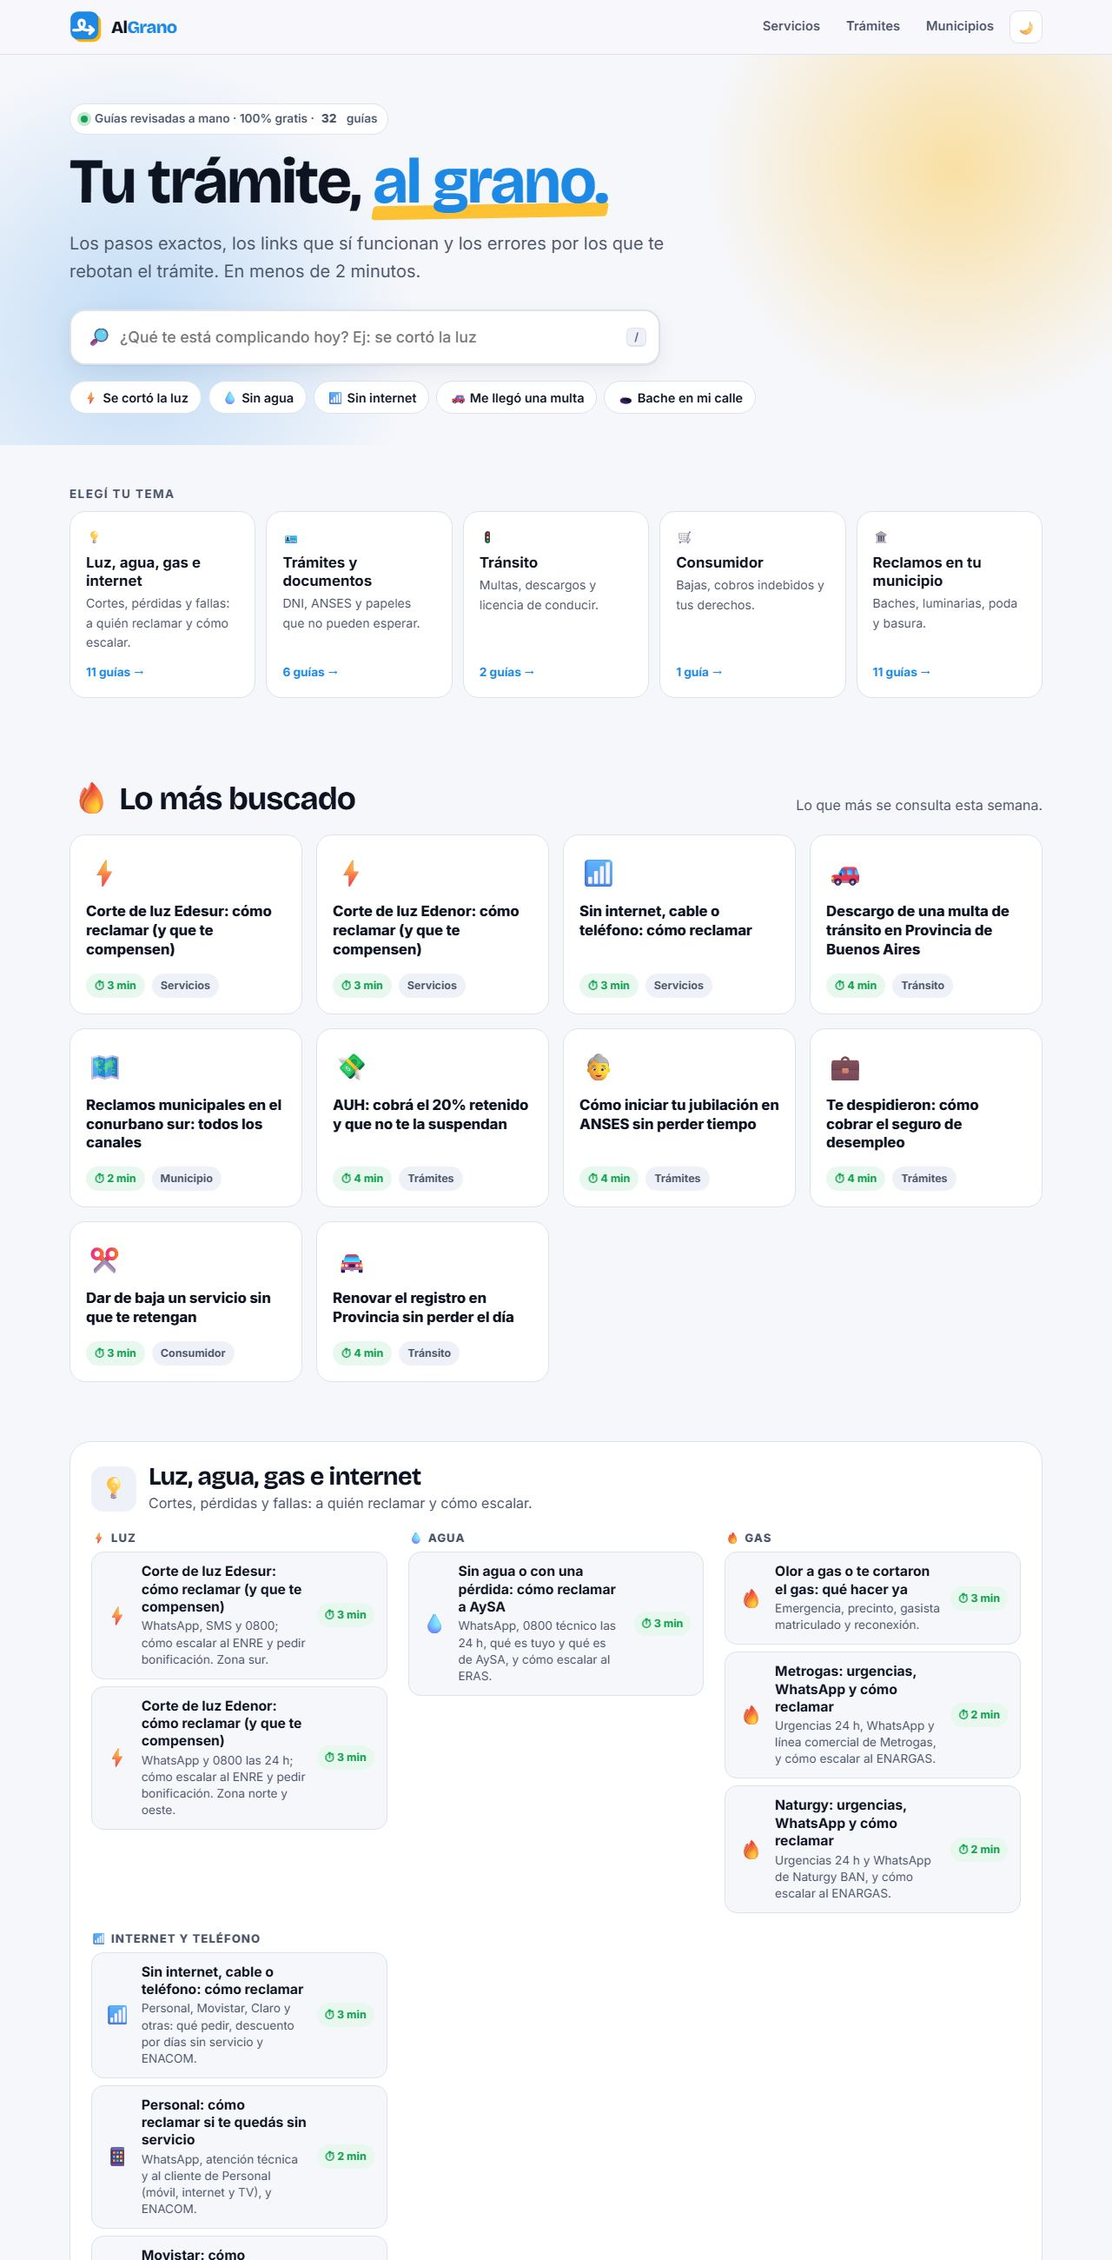
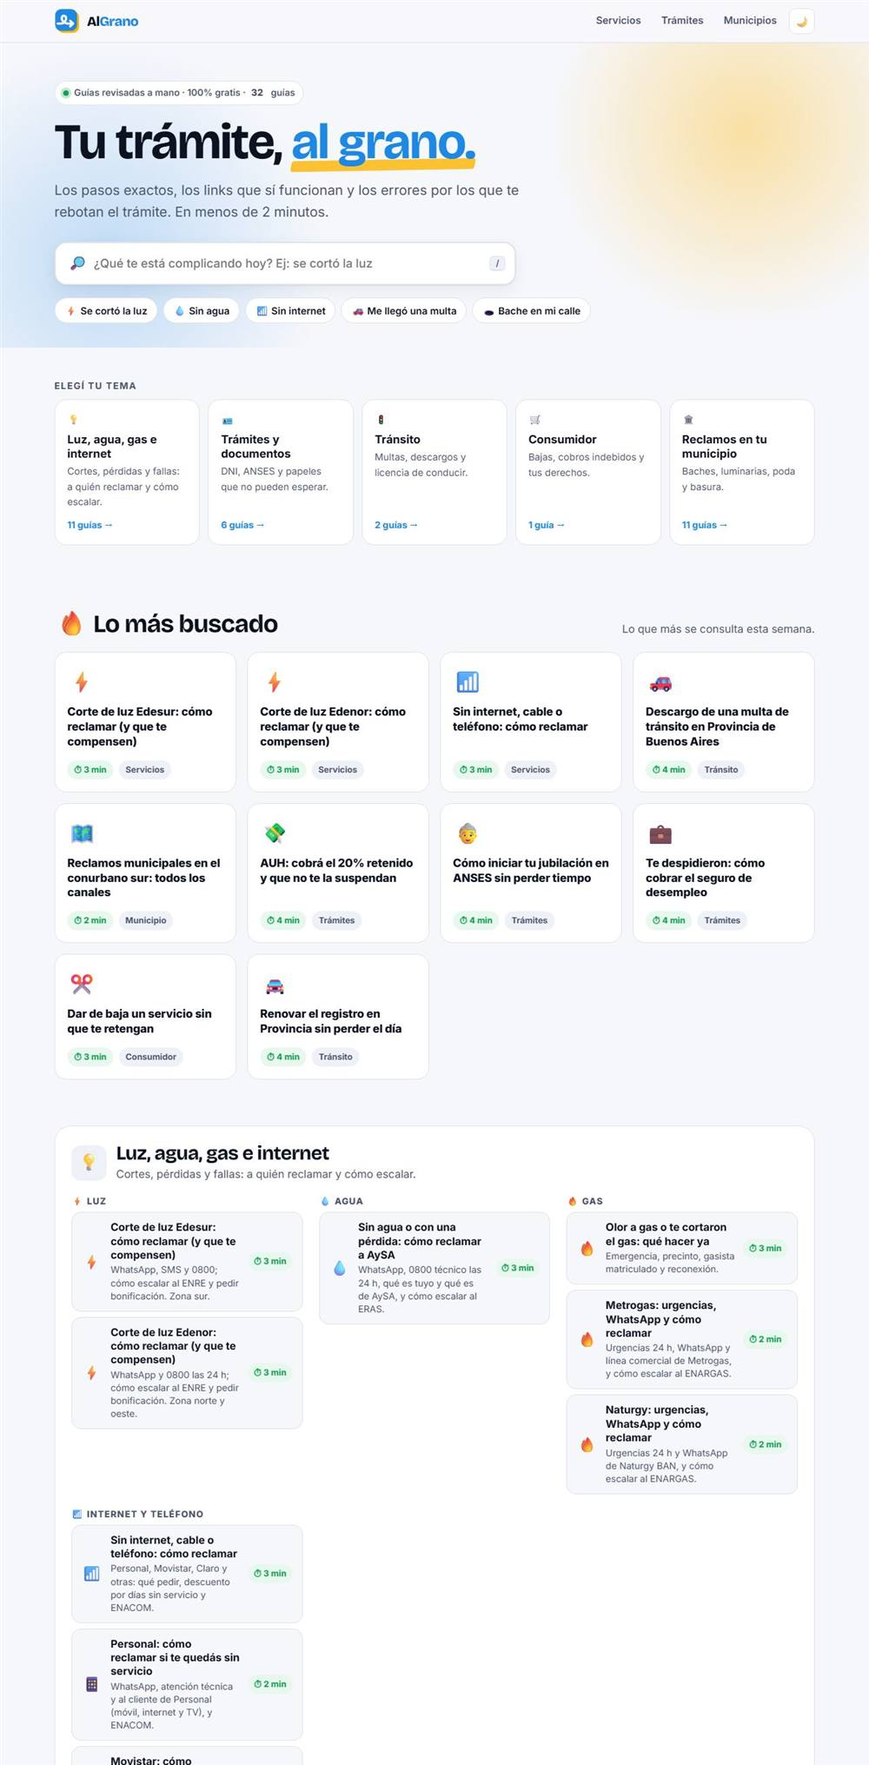
Puesta a punto de SEO y foco en páginas web
- Invitaciones sale del menú principal (queda en el pie y en Trabajos).
- sitemap.xml y robots.txt.
- Favicon SVG e íconos PNG (48, 180, 192 y 512 px) e imagen para
  compartir de 1200x630.
- Datos estructurados: negocio con planes y precios en el inicio y
  migas de pan en el resto; og:url, og:locale y twitter:image.
- Capturas en JPG más livianas (hasta 3 veces menos peso).

diff --git a/index.html b/index.html
@@ -4,14 +4,24 @@
 <meta charset="UTF-8">
 <meta name="viewport" content="width=device-width, initial-scale=1.0">
 <title>Bether Studio — Páginas web para tu negocio | Buenos Aires</title>
-<meta name="description" content="Diseñamos páginas web modernas y pensadas para celular, con una cuota mensual que incluye hosting, cambios y soporte. También hacemos invitaciones digitales.">
+<meta name="description" content="Diseño de páginas web para negocios y profesionales en Buenos Aires. Webs modernas, pensadas para celular, con cuota mensual desde $25.000: hosting, dominio, cambios y soporte incluidos.">
 <link rel="canonical" href="https://bether-studio.com/">
 <meta property="og:type" content="website">
 <meta property="og:title" content="Bether Studio — Tu negocio, con una web que vende">
 <meta property="og:description" content="Webs a medida con cuota mensual: diseño, hosting, cambios y soporte incluidos.">
-<meta property="og:image" content="https://bether-studio.com/img/learningtofly.png">
+<link rel="icon" href="favicon.svg" type="image/svg+xml">
+<link rel="icon" href="favicon-48.png" sizes="48x48" type="image/png">
+<link rel="apple-touch-icon" href="apple-touch-icon.png">
+<meta name="theme-color" content="#0a0a0f">
+<meta property="og:url" content="https://bether-studio.com/">
+<meta property="og:site_name" content="Bether Studio">
+<meta property="og:locale" content="es_AR">
+<meta property="og:image" content="https://bether-studio.com/img/og.jpg">
+<meta property="og:image:width" content="1200">
+<meta property="og:image:height" content="630">
 <meta name="twitter:card" content="summary_large_image">
-<script type="application/ld+json">{"@context":"https://schema.org","@type":"ProfessionalService","name":"Bether Studio","description":"Diseño de páginas web para negocios e invitaciones digitales interactivas.","url":"https://bether-studio.com/","areaServed":"Argentina"}</script>
+<meta name="twitter:image" content="https://bether-studio.com/img/og.jpg">
+<script type="application/ld+json">{"@context":"https://schema.org","@type":"ProfessionalService","@id":"https://bether-studio.com/#negocio","name":"Bether Studio","url":"https://bether-studio.com/","logo":"https://bether-studio.com/icon-512.png","image":"https://bether-studio.com/img/og.jpg","description":"Diseño y desarrollo de páginas web para negocios y profesionales, con cuota mensual que incluye hosting, dominio, cambios y soporte.","telephone":"+54 9 11 4530-9135","priceRange":"$25.000 - $80.000 por mes","currenciesAccepted":"ARS","address":{"@type":"PostalAddress","addressLocality":"Buenos Aires","addressRegion":"Buenos Aires","addressCountry":"AR"},"areaServed":[{"@type":"Country","name":"Argentina"}],"contactPoint":{"@type":"ContactPoint","telephone":"+54 9 11 4530-9135","contactType":"ventas","availableLanguage":"es"},"hasOfferCatalog":{"@type":"OfferCatalog","name":"Planes de páginas web","itemListElement":[{"@type":"Offer","itemOffered":{"@type":"Service","name":"Plan Inicial","description":"Web de una página con WhatsApp, mapa, hosting y SSL"},"price":25000,"priceCurrency":"ARS"},{"@type":"Offer","itemOffered":{"@type":"Service","name":"Plan Negocio","description":"Hasta 5 secciones, dominio .com.ar, alta en Google y estadísticas"},"price":45000,"priceCurrency":"ARS"},{"@type":"Offer","itemOffered":{"@type":"Service","name":"Plan Premium","description":"Funciones a medida: reservas, catálogo, área de clientes"},"price":80000,"priceCurrency":"ARS"}]}}</script>
 <link rel="preconnect" href="https://fonts.googleapis.com">
 <link rel="preconnect" href="https://fonts.gstatic.com" crossorigin>
 <link href="https://fonts.googleapis.com/css2?family=Cormorant+Garamond:ital,wght@0,500;0,600;1,500&family=Manrope:wght@400;600;700;800&display=swap" rel="stylesheet">
@@ -35,7 +45,6 @@
       <a href="trabajos.html">Trabajos</a>
       <a href="planes.html">Planes</a>
       <a href="empezar.html">Cómo empezar</a>
-      <a href="invitaciones.html" class="nav__inv">Invitaciones ✦</a>
     </div>
     <a href="empezar.html#contacto" class="btn btn--dark">Quiero mi web</a>
     <button class="nav__burger" id="navBurger" aria-label="Abrir menú" aria-expanded="false"><span></span><span></span><span></span></button>
@@ -67,9 +76,9 @@
     </div>
     <div class="scene hero__in" style="--d:.3s" id="scene" aria-hidden="true">
       <div class="deck" id="deck">
-        <div class="browser b1"><div class="browser__bar"><i></i><i></i><i></i><span>learningtoflyacademy.com</span></div><img src="img/learningtofly.png" alt=""></div>
+        <div class="browser b1"><div class="browser__bar"><i></i><i></i><i></i><span>learningtoflyacademy.com</span></div><img src="img/learningtofly.jpg" alt=""></div>
         <div class="browser b2"><div class="browser__bar"><i></i><i></i><i></i><span>salón bether</span></div><img src="img/salon.jpg" alt=""></div>
-        <div class="browser b3"><div class="browser__bar"><i></i><i></i><i></i><span>algrano.com.ar</span></div><img src="img/algrano.png" alt=""></div>
+        <div class="browser b3"><div class="browser__bar"><i></i><i></i><i></i><span>algrano.com.ar</span></div><img src="img/algrano.jpg" alt=""></div>
         <div class="toast t1"><span class="ic ic--wa">💬</span><div><b>Nueva consulta</b><small>desde tu web · hace 1 min</small></div></div>
         <div class="toast t2"><span class="ic">📱</span><div><b>Perfecta en el celular</b><small>y en cualquier pantalla</small></div></div>
         <div class="seal">Webs<br>reales,<br>en uso</div>
@@ -158,7 +167,7 @@
       <a class="work work--mini rv" href="https://www.learningtoflyacademy.com/" target="_blank" rel="noopener">
         <div class="shot">
           <span class="status">En uso</span>
-          <div class="browser"><div class="browser__bar"><i></i><i></i><i></i><span>learningtoflyacademy.com</span></div><img src="img/learningtofly.png" alt="Página de Learning to Fly Academy" loading="lazy"></div>
+          <div class="browser"><div class="browser__bar"><i></i><i></i><i></i><span>learningtoflyacademy.com</span></div><img src="img/learningtofly.jpg" alt="Página de Learning to Fly Academy" loading="lazy"></div>
         </div>
         <div class="info">
           <span class="cat">Academia de inglés</span>

diff --git a/trabajos.html b/trabajos.html
@@ -9,9 +9,19 @@
 <meta property="og:type" content="website">
 <meta property="og:title" content="Bether Studio — Tu negocio, con una web que vende">
 <meta property="og:description" content="Webs a medida con cuota mensual: diseño, hosting, cambios y soporte incluidos.">
-<meta property="og:image" content="https://bether-studio.com/img/learningtofly.png">
+<link rel="icon" href="favicon.svg" type="image/svg+xml">
+<link rel="icon" href="favicon-48.png" sizes="48x48" type="image/png">
+<link rel="apple-touch-icon" href="apple-touch-icon.png">
+<meta name="theme-color" content="#0a0a0f">
+<meta property="og:url" content="https://bether-studio.com/trabajos.html">
+<meta property="og:site_name" content="Bether Studio">
+<meta property="og:locale" content="es_AR">
+<meta property="og:image" content="https://bether-studio.com/img/og.jpg">
+<meta property="og:image:width" content="1200">
+<meta property="og:image:height" content="630">
 <meta name="twitter:card" content="summary_large_image">
-<script type="application/ld+json">{"@context":"https://schema.org","@type":"ProfessionalService","name":"Bether Studio","description":"Diseño de páginas web para negocios e invitaciones digitales interactivas.","url":"https://bether-studio.com/","areaServed":"Argentina"}</script>
+<meta name="twitter:image" content="https://bether-studio.com/img/og.jpg">
+<script type="application/ld+json">{"@context":"https://schema.org","@type":"BreadcrumbList","itemListElement":[{"@type":"ListItem","position":1,"name":"Inicio","item":"https://bether-studio.com/"},{"@type":"ListItem","position":2,"name":"Trabajos","item":"https://bether-studio.com/trabajos.html"}]}</script>
 <link rel="preconnect" href="https://fonts.googleapis.com">
 <link rel="preconnect" href="https://fonts.gstatic.com" crossorigin>
 <link href="https://fonts.googleapis.com/css2?family=Cormorant+Garamond:ital,wght@0,500;0,600;1,500&family=Manrope:wght@400;600;700;800&display=swap" rel="stylesheet">
@@ -35,7 +45,6 @@
       <a href="trabajos.html" class="active" aria-current="page">Trabajos</a>
       <a href="planes.html">Planes</a>
       <a href="empezar.html">Cómo empezar</a>
-      <a href="invitaciones.html" class="nav__inv">Invitaciones ✦</a>
     </div>
     <a href="empezar.html#contacto" class="btn btn--dark">Quiero mi web</a>
     <button class="nav__burger" id="navBurger" aria-label="Abrir menú" aria-expanded="false"><span></span><span></span><span></span></button>
@@ -70,7 +79,7 @@
       <article class="work featured rv" data-cat="educacion">
         <div class="shot">
           <span class="status">En uso</span>
-          <div class="browser"><div class="browser__bar"><i></i><i></i><i></i><span>learningtoflyacademy.com</span></div><img src="img/learningtofly.png" alt="Página de Learning to Fly Academy" loading="lazy"></div>
+          <div class="browser"><div class="browser__bar"><i></i><i></i><i></i><span>learningtoflyacademy.com</span></div><img src="img/learningtofly.jpg" alt="Página de Learning to Fly Academy" loading="lazy"></div>
         </div>
         <div class="info">
           <span class="cat">Academia de inglés · Argentina y España</span>

diff --git a/empezar.html b/empezar.html
@@ -9,9 +9,19 @@
 <meta property="og:type" content="website">
 <meta property="og:title" content="Bether Studio — Tu negocio, con una web que vende">
 <meta property="og:description" content="Webs a medida con cuota mensual: diseño, hosting, cambios y soporte incluidos.">
-<meta property="og:image" content="https://bether-studio.com/img/learningtofly.png">
+<link rel="icon" href="favicon.svg" type="image/svg+xml">
+<link rel="icon" href="favicon-48.png" sizes="48x48" type="image/png">
+<link rel="apple-touch-icon" href="apple-touch-icon.png">
+<meta name="theme-color" content="#0a0a0f">
+<meta property="og:url" content="https://bether-studio.com/empezar.html">
+<meta property="og:site_name" content="Bether Studio">
+<meta property="og:locale" content="es_AR">
+<meta property="og:image" content="https://bether-studio.com/img/og.jpg">
+<meta property="og:image:width" content="1200">
+<meta property="og:image:height" content="630">
 <meta name="twitter:card" content="summary_large_image">
-<script type="application/ld+json">{"@context":"https://schema.org","@type":"ProfessionalService","name":"Bether Studio","description":"Diseño de páginas web para negocios e invitaciones digitales interactivas.","url":"https://bether-studio.com/","areaServed":"Argentina"}</script>
+<meta name="twitter:image" content="https://bether-studio.com/img/og.jpg">
+<script type="application/ld+json">{"@context":"https://schema.org","@type":"BreadcrumbList","itemListElement":[{"@type":"ListItem","position":1,"name":"Inicio","item":"https://bether-studio.com/"},{"@type":"ListItem","position":2,"name":"Cómo empezar","item":"https://bether-studio.com/empezar.html"}]}</script>
 <link rel="preconnect" href="https://fonts.googleapis.com">
 <link rel="preconnect" href="https://fonts.gstatic.com" crossorigin>
 <link href="https://fonts.googleapis.com/css2?family=Cormorant+Garamond:ital,wght@0,500;0,600;1,500&family=Manrope:wght@400;600;700;800&display=swap" rel="stylesheet">
@@ -35,7 +45,6 @@
       <a href="trabajos.html">Trabajos</a>
       <a href="planes.html">Planes</a>
       <a href="empezar.html" class="active" aria-current="page">Cómo empezar</a>
-      <a href="invitaciones.html" class="nav__inv">Invitaciones ✦</a>
     </div>
     <a href="empezar.html#contacto" class="btn btn--dark">Quiero mi web</a>
     <button class="nav__burger" id="navBurger" aria-label="Abrir menú" aria-expanded="false"><span></span><span></span><span></span></button>

diff --git a/planes.html b/planes.html
@@ -9,9 +9,19 @@
 <meta property="og:type" content="website">
 <meta property="og:title" content="Bether Studio — Tu negocio, con una web que vende">
 <meta property="og:description" content="Webs a medida con cuota mensual: diseño, hosting, cambios y soporte incluidos.">
-<meta property="og:image" content="https://bether-studio.com/img/learningtofly.png">
+<link rel="icon" href="favicon.svg" type="image/svg+xml">
+<link rel="icon" href="favicon-48.png" sizes="48x48" type="image/png">
+<link rel="apple-touch-icon" href="apple-touch-icon.png">
+<meta name="theme-color" content="#0a0a0f">
+<meta property="og:url" content="https://bether-studio.com/planes.html">
+<meta property="og:site_name" content="Bether Studio">
+<meta property="og:locale" content="es_AR">
+<meta property="og:image" content="https://bether-studio.com/img/og.jpg">
+<meta property="og:image:width" content="1200">
+<meta property="og:image:height" content="630">
 <meta name="twitter:card" content="summary_large_image">
-<script type="application/ld+json">{"@context":"https://schema.org","@type":"ProfessionalService","name":"Bether Studio","description":"Diseño de páginas web para negocios e invitaciones digitales interactivas.","url":"https://bether-studio.com/","areaServed":"Argentina"}</script>
+<meta name="twitter:image" content="https://bether-studio.com/img/og.jpg">
+<script type="application/ld+json">{"@context":"https://schema.org","@type":"BreadcrumbList","itemListElement":[{"@type":"ListItem","position":1,"name":"Inicio","item":"https://bether-studio.com/"},{"@type":"ListItem","position":2,"name":"Planes","item":"https://bether-studio.com/planes.html"}]}</script>
 <link rel="preconnect" href="https://fonts.googleapis.com">
 <link rel="preconnect" href="https://fonts.gstatic.com" crossorigin>
 <link href="https://fonts.googleapis.com/css2?family=Cormorant+Garamond:ital,wght@0,500;0,600;1,500&family=Manrope:wght@400;600;700;800&display=swap" rel="stylesheet">
@@ -35,7 +45,6 @@
       <a href="trabajos.html">Trabajos</a>
       <a href="planes.html" class="active" aria-current="page">Planes</a>
       <a href="empezar.html">Cómo empezar</a>
-      <a href="invitaciones.html" class="nav__inv">Invitaciones ✦</a>
     </div>
     <a href="empezar.html#contacto" class="btn btn--dark">Quiero mi web</a>
     <button class="nav__burger" id="navBurger" aria-label="Abrir menú" aria-expanded="false"><span></span><span></span><span></span></button>

diff --git a/portfolio.html b/portfolio.html
@@ -9,7 +9,17 @@
 <meta property="og:type" content="website">
 <meta property="og:title" content="Ejemplos en vivo — Bether Studio | Invitaciones digitales">
 <meta property="og:description" content="Invitaciones digitales reales para casamientos, XV, cumpleaños e infantiles. Elegí una y navegala como un invitado.">
+<link rel="icon" href="favicon.svg" type="image/svg+xml">
+<link rel="icon" href="favicon-48.png" sizes="48x48" type="image/png">
+<link rel="apple-touch-icon" href="apple-touch-icon.png">
+<meta name="theme-color" content="#0a0a0f">
+<meta property="og:url" content="https://bether-studio.com/portfolio.html">
+<meta property="og:site_name" content="Bether Studio">
+<meta property="og:locale" content="es_AR">
 <meta property="og:image" content="https://bether-studio.com/img/inv/casamiento.jpg">
+<meta name="twitter:card" content="summary_large_image">
+<meta name="twitter:image" content="https://bether-studio.com/img/inv/casamiento.jpg">
+<script type="application/ld+json">{"@context":"https://schema.org","@type":"BreadcrumbList","itemListElement":[{"@type":"ListItem","position":1,"name":"Inicio","item":"https://bether-studio.com/"},{"@type":"ListItem","position":2,"name":"Invitaciones","item":"https://bether-studio.com/invitaciones.html"},{"@type":"ListItem","position":3,"name":"Ejemplos","item":"https://bether-studio.com/portfolio.html"}]}</script>
 <link rel="preconnect" href="https://fonts.googleapis.com">
 <link rel="preconnect" href="https://fonts.gstatic.com" crossorigin>
 <link href="https://fonts.googleapis.com/css2?family=Cormorant+Garamond:ital,wght@0,500;0,600;1,500&family=Great+Vibes&family=Manrope:wght@400;600;700;800&display=swap" rel="stylesheet">

diff --git a/contacto.html b/contacto.html
@@ -9,7 +9,17 @@
 <meta property="og:type" content="website">
 <meta property="og:title" content="Pedí tu invitación — Bether Studio">
 <meta property="og:description" content="Contanos tu fiesta y en 24–48 hs te mandamos la demo de tu invitación digital, gratis y sin compromiso.">
+<link rel="icon" href="favicon.svg" type="image/svg+xml">
+<link rel="icon" href="favicon-48.png" sizes="48x48" type="image/png">
+<link rel="apple-touch-icon" href="apple-touch-icon.png">
+<meta name="theme-color" content="#0a0a0f">
+<meta property="og:url" content="https://bether-studio.com/contacto.html">
+<meta property="og:site_name" content="Bether Studio">
+<meta property="og:locale" content="es_AR">
 <meta property="og:image" content="https://bether-studio.com/img/inv/casamiento.jpg">
+<meta name="twitter:card" content="summary_large_image">
+<meta name="twitter:image" content="https://bether-studio.com/img/inv/casamiento.jpg">
+<script type="application/ld+json">{"@context":"https://schema.org","@type":"BreadcrumbList","itemListElement":[{"@type":"ListItem","position":1,"name":"Inicio","item":"https://bether-studio.com/"},{"@type":"ListItem","position":2,"name":"Invitaciones","item":"https://bether-studio.com/invitaciones.html"},{"@type":"ListItem","position":3,"name":"Pedí la tuya","item":"https://bether-studio.com/contacto.html"}]}</script>
 <link rel="preconnect" href="https://fonts.googleapis.com">
 <link rel="preconnect" href="https://fonts.gstatic.com" crossorigin>
 <link href="https://fonts.googleapis.com/css2?family=Cormorant+Garamond:ital,wght@0,500;0,600;1,500&family=Great+Vibes&family=Manrope:wght@400;600;700;800&display=swap" rel="stylesheet">

diff --git a/precios.html b/precios.html
@@ -9,7 +9,17 @@
 <meta property="og:type" content="website">
 <meta property="og:title" content="Precios — Bether Studio | Invitaciones digitales">
 <meta property="og:description" content="Invitaciones digitales desde $10.000, pago único. Demo gratis: si no te convence, no pagás nada.">
+<link rel="icon" href="favicon.svg" type="image/svg+xml">
+<link rel="icon" href="favicon-48.png" sizes="48x48" type="image/png">
+<link rel="apple-touch-icon" href="apple-touch-icon.png">
+<meta name="theme-color" content="#0a0a0f">
+<meta property="og:url" content="https://bether-studio.com/precios.html">
+<meta property="og:site_name" content="Bether Studio">
+<meta property="og:locale" content="es_AR">
 <meta property="og:image" content="https://bether-studio.com/img/inv/casamiento.jpg">
+<meta name="twitter:card" content="summary_large_image">
+<meta name="twitter:image" content="https://bether-studio.com/img/inv/casamiento.jpg">
+<script type="application/ld+json">{"@context":"https://schema.org","@type":"BreadcrumbList","itemListElement":[{"@type":"ListItem","position":1,"name":"Inicio","item":"https://bether-studio.com/"},{"@type":"ListItem","position":2,"name":"Invitaciones","item":"https://bether-studio.com/invitaciones.html"},{"@type":"ListItem","position":3,"name":"Precios","item":"https://bether-studio.com/precios.html"}]}</script>
 <link rel="preconnect" href="https://fonts.googleapis.com">
 <link rel="preconnect" href="https://fonts.gstatic.com" crossorigin>
 <link href="https://fonts.googleapis.com/css2?family=Cormorant+Garamond:ital,wght@0,500;0,600;1,500&family=Great+Vibes&family=Manrope:wght@400;600;700;800&display=swap" rel="stylesheet">

diff --git a/invitaciones.html b/invitaciones.html
@@ -9,7 +9,17 @@
 <meta property="og:type" content="website">
 <meta property="og:title" content="Bether Studio — Invitaciones digitales interactivas | Buenos Aires">
 <meta property="og:description" content="Invitaciones digitales que se viven: link con el nombre de cada invitado, sobre animado, música, mini-juego y confirmación en tiempo real. Demo gratis.">
+<link rel="icon" href="favicon.svg" type="image/svg+xml">
+<link rel="icon" href="favicon-48.png" sizes="48x48" type="image/png">
+<link rel="apple-touch-icon" href="apple-touch-icon.png">
+<meta name="theme-color" content="#0a0a0f">
+<meta property="og:url" content="https://bether-studio.com/invitaciones.html">
+<meta property="og:site_name" content="Bether Studio">
+<meta property="og:locale" content="es_AR">
 <meta property="og:image" content="https://bether-studio.com/img/inv/casamiento.jpg">
+<meta name="twitter:card" content="summary_large_image">
+<meta name="twitter:image" content="https://bether-studio.com/img/inv/casamiento.jpg">
+<script type="application/ld+json">{"@context":"https://schema.org","@type":"BreadcrumbList","itemListElement":[{"@type":"ListItem","position":1,"name":"Inicio","item":"https://bether-studio.com/"},{"@type":"ListItem","position":2,"name":"Invitaciones","item":"https://bether-studio.com/invitaciones.html"}]}</script>
 <link rel="preconnect" href="https://fonts.googleapis.com">
 <link rel="preconnect" href="https://fonts.gstatic.com" crossorigin>
 <link href="https://fonts.googleapis.com/css2?family=Cormorant+Garamond:ital,wght@0,500;0,600;1,500&family=Great+Vibes&family=Manrope:wght@400;600;700;800&display=swap" rel="stylesheet">
